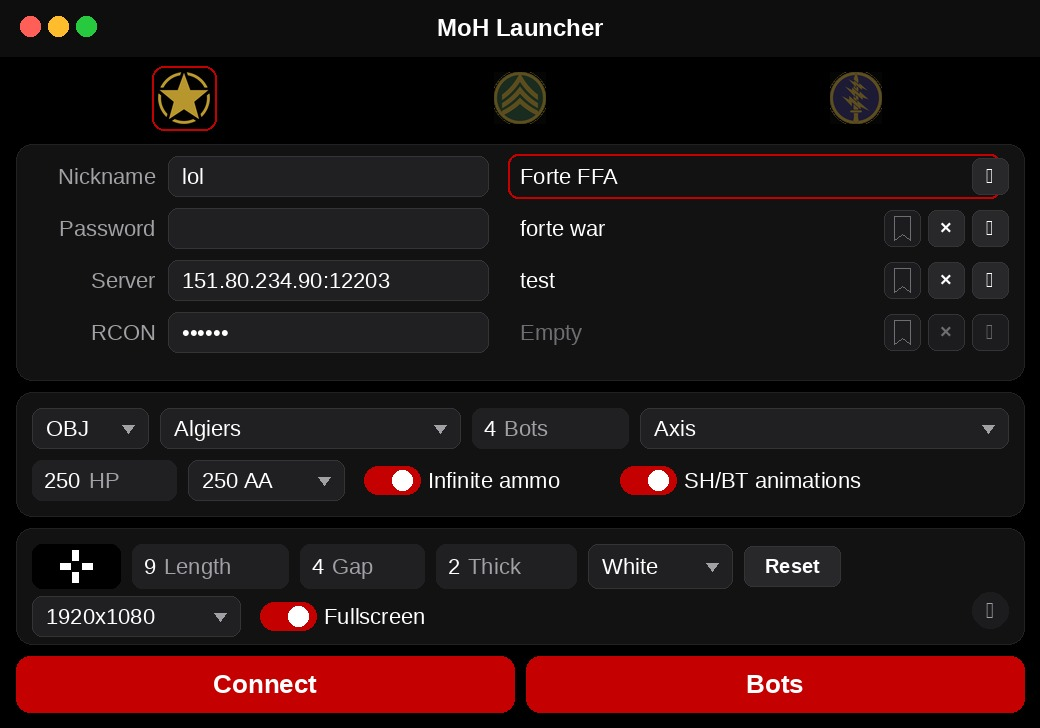
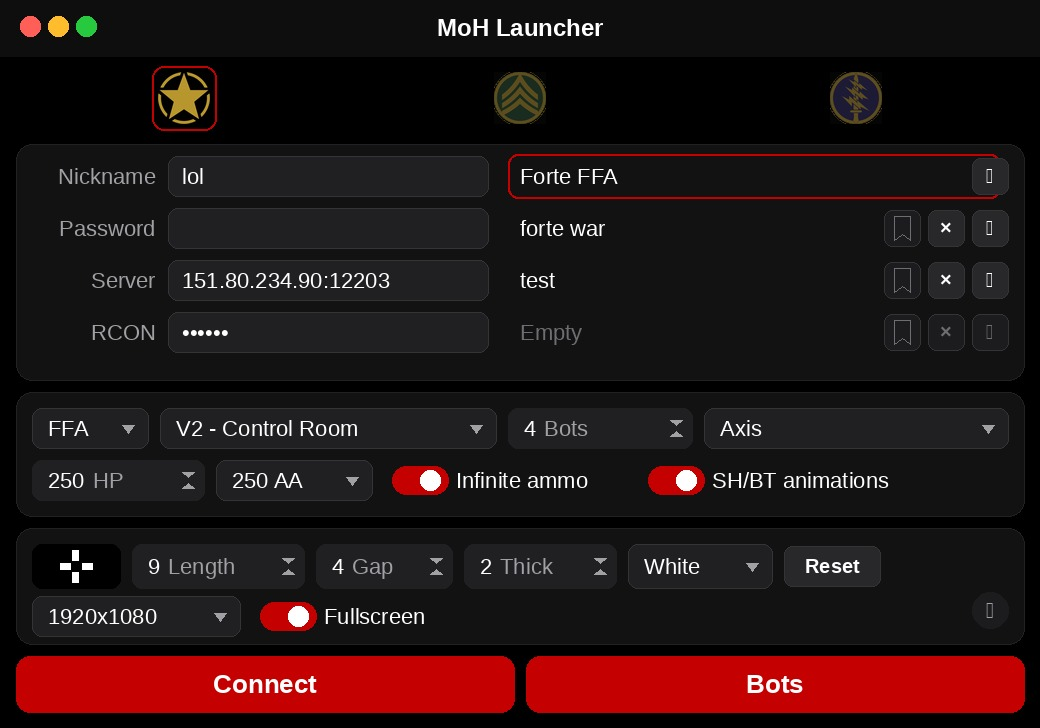
Match the number boxes to the menus
The number and its label sit on the left, and the up and down arrows are
the same small size as the menu arrows.

diff --git a/Launcher.swift b/Launcher.swift
@@ -917,7 +917,8 @@ struct Card<Content: View>: View {
     }
 }
 
-/// A number box that reads as "3 Bots" or "100 HP".
+/// A number box that reads as "4 Bots" or "250 HP", with the same inset and
+/// arrow size as the menus beside it.
 struct UnitField: View {
     @Binding var value: Int
     let range: ClosedRange<Int>
@@ -926,22 +927,86 @@ struct UnitField: View {
 
     var body: some View {
         HStack(spacing: 4) {
-            TextField(
-                "",
-                value: Binding(get: { value }, set: { value = min(max($0, range.lowerBound), range.upperBound) }),
-                format: .number.grouping(.never)
-            )
-            .textFieldStyle(.plain)
-            .multilineTextAlignment(.trailing)
-            .monospacedDigit()
-            .frame(width: range.upperBound > 99 ? 34 : 20)
+            TightNumber(value: $value, range: range)
             Text(unit).foregroundStyle(.secondary)
-            Stepper("", value: $value, in: range, step: step).labelsHidden()
+            Spacer(minLength: 6)
+            VStack(spacing: 0) {
+                stepButton("chevron.up") { value = min(value + step, range.upperBound) }
+                stepButton("chevron.down") { value = max(value - step, range.lowerBound) }
+            }
         }
-        .padding(.leading, 6)
-        .padding(.trailing, 2)
-        .background(RoundedRectangle(cornerRadius: 6, style: .continuous).fill(Color.primary.opacity(0.08)))
+        .padding(.leading, 8)
+        .padding(.trailing, 6)
+        .frame(height: 22)
+        .background(RoundedRectangle(cornerRadius: 5, style: .continuous).fill(Color.primary.opacity(0.08)))
         .fixedSize()
+    }
+
+    private func stepButton(_ name: String, action: @escaping () -> Void) -> some View {
+        Button(action: action) {
+            Image(systemName: name)
+                .font(.system(size: 7, weight: .semibold))
+                .frame(width: 12, height: 8)
+                .contentShape(Rectangle())
+        }
+        .buttonStyle(.plain)
+        .foregroundStyle(.secondary)
+    }
+}
+
+/// A borderless number that sits on the same line as the menus' titles.
+private struct TightNumber: NSViewRepresentable {
+    @Binding var value: Int
+    let range: ClosedRange<Int>
+
+    func makeNSView(context: Context) -> NSTextField {
+        let field = NSTextField(string: String(value))
+        field.isBezeled = false
+        field.isBordered = false
+        field.drawsBackground = false
+        field.focusRingType = .none
+        field.font = .monospacedDigitSystemFont(ofSize: NSFont.systemFontSize, weight: .regular)
+        field.alignment = .left
+        field.maximumNumberOfLines = 1
+        field.delegate = context.coordinator
+        field.setContentHuggingPriority(.required, for: .horizontal)
+        return field
+    }
+
+    func updateNSView(_ field: NSTextField, context: Context) {
+        context.coordinator.range = range
+        context.coordinator.binding = $value
+        if field.currentEditor() == nil, field.stringValue != String(value) {
+            field.stringValue = String(value)
+        }
+    }
+
+    func sizeThatFits(_ proposal: ProposedViewSize, nsView: NSTextField, context: Context) -> CGSize? {
+        let sample = String(repeating: "0", count: max(1, String(range.upperBound).count))
+        let width = (sample as NSString).size(withAttributes: [.font: nsView.font as Any]).width
+        return CGSize(width: width + 2, height: 16)
+    }
+
+    func makeCoordinator() -> Coordinator {
+        Coordinator(value: $value, range: range)
+    }
+
+    final class Coordinator: NSObject, NSTextFieldDelegate {
+        var binding: Binding<Int>
+        var range: ClosedRange<Int>
+
+        init(value: Binding<Int>, range: ClosedRange<Int>) {
+            binding = value
+            self.range = range
+        }
+
+        func controlTextDidEndEditing(_ note: Notification) {
+            guard let field = note.object as? NSTextField else { return }
+            let number = Int(field.stringValue) ?? binding.wrappedValue
+            let clamped = min(max(number, range.lowerBound), range.upperBound)
+            binding.wrappedValue = clamped
+            field.stringValue = String(clamped)
+        }
     }
 }
 

diff --git a/README.md b/README.md
@@ -2,7 +2,7 @@
 
 MoH Launcher for MoHAA. The window is black, with red controls.
 
-![Launcher](preview.jpg?v=20)
+![Launcher](preview.jpg?v=21)
 
 Connect opens `openmohaa.app`. Bots opens `mohbots.app`. The first shortcut is Forte FFA and cannot be changed.
 
